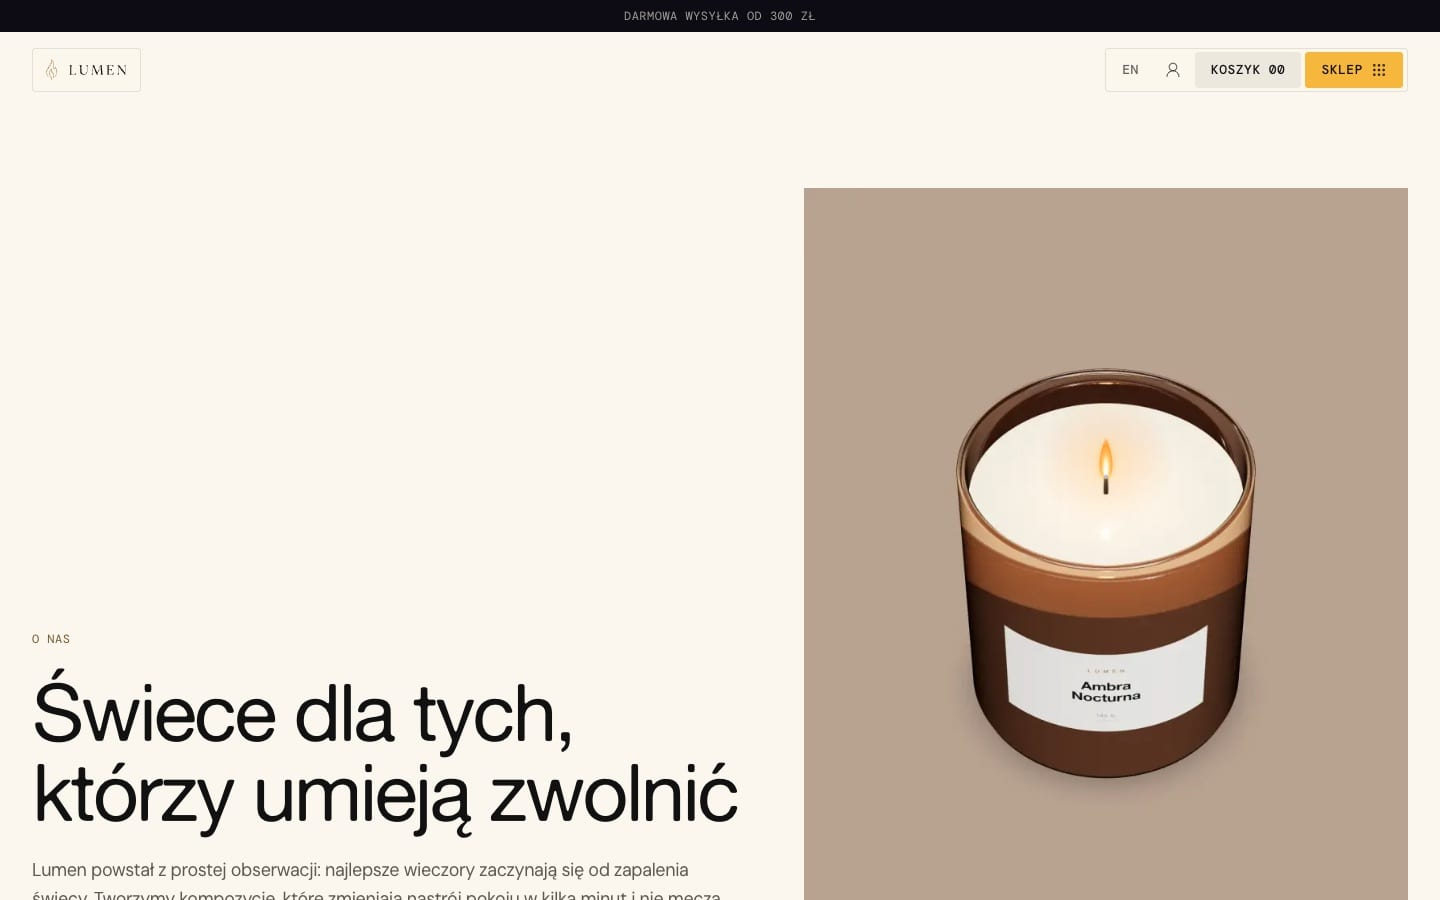
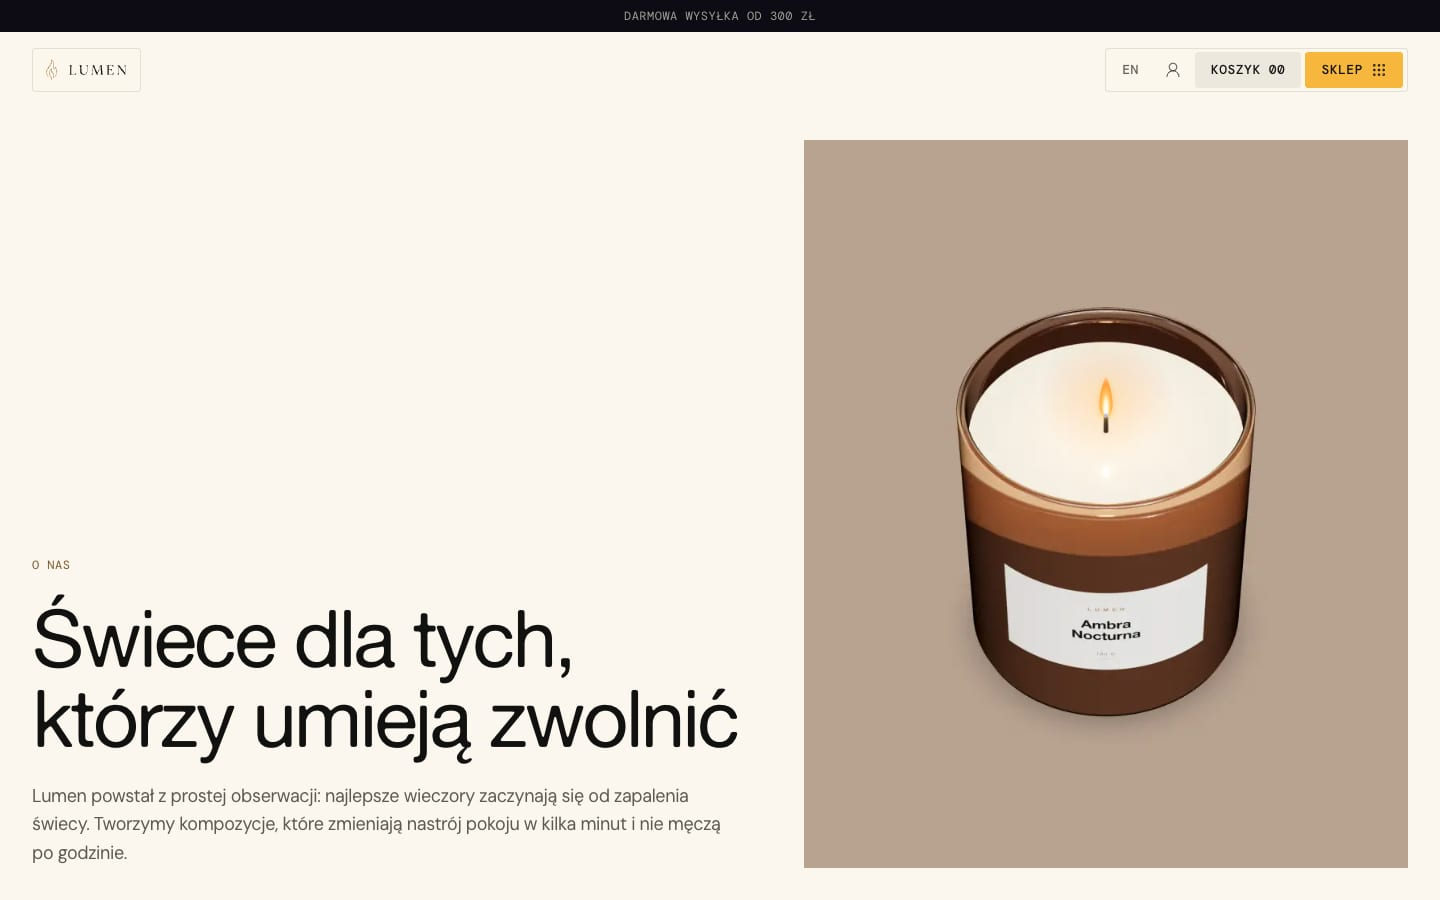
fix: strona o nas poprawiona; zaaktualizowany readme

diff --git a/apps/web/src/app/[locale]/about/page.tsx b/apps/web/src/app/[locale]/about/page.tsx
@@ -28,7 +28,7 @@ export default async function AboutPage({ params }: { params: Promise<{ locale: 
 
   return (
     <>
-      <section className="container-page grid gap-12 pb-24 pt-12 md:grid-cols-[1.2fr_1fr] md:items-end md:pb-40 md:pt-20">
+      <section className="container-page grid gap-12 pb-24 pt-12 md:pb-40 md:pt-16 lg:grid-cols-[1.2fr_1fr] lg:items-end lg:pt-8">
         <div className="flex flex-col gap-6">
           <p className="type-eyebrow text-gold-text">{t("eyebrow")}</p>
           <RevealText as="h1" className="type-h1" immediate>
@@ -36,8 +36,8 @@ export default async function AboutPage({ params }: { params: Promise<{ locale: 
           </RevealText>
           <p className="type-body-lg measure text-ink-soft">{t("intro")}</p>
         </div>
-        <div className="relative aspect-[4/5] overflow-hidden bg-sand">
-          <Image src="/products/ambra-nocturna-top.webp" alt="" fill preload loading="eager" fetchPriority="high" sizes="(min-width: 768px) 45vw, 100vw" className="object-cover" />
+        <div className="relative aspect-[4/5] overflow-hidden bg-sand md:aspect-[4/3] lg:aspect-auto lg:h-[min(calc(100svh-var(--announcement-h)-var(--header-h)-4rem),56rem)]">
+          <Image src="/products/ambra-nocturna-top.webp" alt="" fill preload loading="eager" fetchPriority="high" sizes="(min-width: 1024px) 45vw, 100vw" className="object-cover" />
           <CandleFlame shot="top" seed="about" />
         </div>
       </section>
